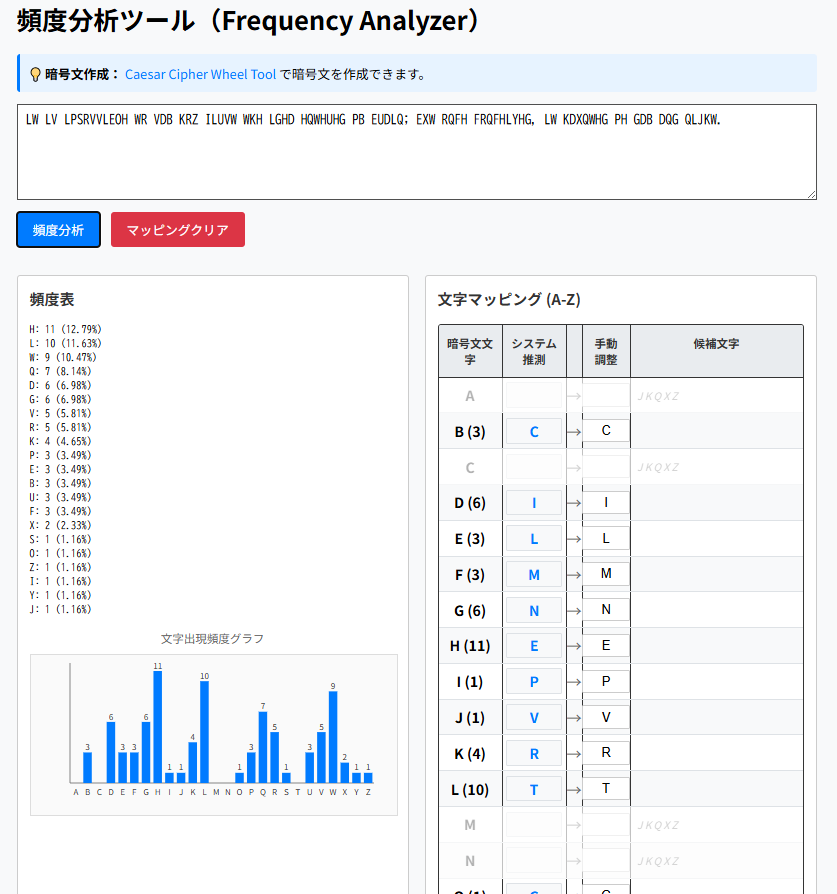
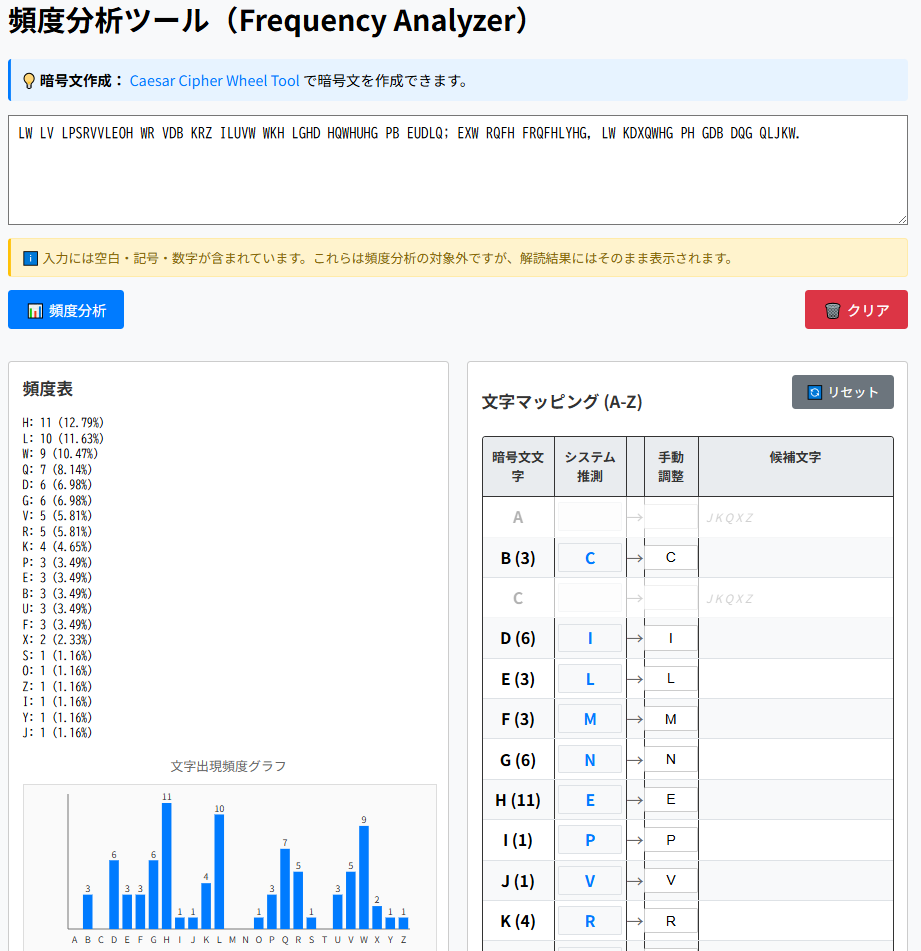
ボタン配置、SS更新

Changed region(s): [[0.0, 0.1208, 0.994, 1.0], [0.0, 0.0, 0.8698, 0.151], [0.0, 0.8154, 0.0311, 1.0]]

diff --git a/main.js b/main.js
@@ -244,53 +244,15 @@ function decodeText() {
 function displayDecodedTextWithHighlight(newDecoded) {
   const decodedElement = document.getElementById("decodedText");
   
-  // 文字単位でspan要素に分割
-  let htmlContent = '';
-  const changedPositions = [];
+  // textareaの場合はプレーンテキストで表示
+  decodedElement.value = newDecoded;
   
-  for (let i = 0; i < newDecoded.length; i++) {
-    const currentChar = newDecoded[i];
-    const previousChar = previousDecoded[i] || '';
-    const isChanged = currentChar !== previousChar && previousDecoded !== '';
-    
-    if (isChanged) {
-      changedPositions.push(i);
-    }
-    
-    if (currentChar.match(/[a-zA-Z*?]/)) {
-      htmlContent += `<span class="char-${i}${isChanged ? ' changed-char just-changed' : ''}">${currentChar}</span>`;
-    } else {
-      htmlContent += currentChar;
-    }
-  }
-  
-  decodedElement.innerHTML = htmlContent;
-  
-  // 変更された文字のアニメーション処理
-  if (changedPositions.length > 0) {
+  // 変更があった場合の視覚的フィードバック（背景色の一時変更）
+  if (newDecoded !== previousDecoded && previousDecoded !== '') {
+    decodedElement.style.backgroundColor = '#fff3cd';
     setTimeout(() => {
-      changedPositions.forEach(pos => {
-        const element = decodedElement.querySelector(`.char-${pos}`);
-        if (element) {
-          element.classList.remove('just-changed');
-        }
-      });
-    }, 500);
-    
-    // 5秒後にフェードアウト開始
-    setTimeout(() => {
-      changedPositions.forEach(pos => {
-        const element = decodedElement.querySelector(`.char-${pos}`);
-        if (element) {
-          element.classList.add('fade-out');
-          
-          // フェードアウト完了後にクラスを削除
-          setTimeout(() => {
-            element.classList.remove('changed-char', 'fade-out');
-          }, 1000);
-        }
-      });
-    }, 5000);
+      decodedElement.style.backgroundColor = '#f8f9fa';
+    }, 300);
   }
 }
 
@@ -378,7 +340,7 @@ function clearMapping() {
 }
 
 function copyResult() {
-  const resultText = document.getElementById("decodedText").textContent;
+  const resultText = document.getElementById("decodedText").value;
   navigator.clipboard.writeText(resultText).then(() => {
     // 一時的にボタンのテキストを変更してフィードバック
     const button = document.querySelector('.copy-btn');
@@ -396,7 +358,8 @@ function copyResult() {
 
 function clearResult() {
   document.getElementById("cipherText").value = '';
-  document.getElementById("decodedText").textContent = 'マッピングを設定すると解読結果が表示されます';
+  document.getElementById("decodedText").value = '';
+  document.getElementById("decodedText").placeholder = 'マッピングを設定すると解読結果が表示されます';
   frequencyData = {};
   currentMapping = {};
   systemGuess = {};

diff --git a/index.html b/index.html
@@ -20,8 +20,12 @@
   </div>
   
   <div class="controls">
-    <button onclick="analyze()">頻度分析</button>
-    <button onclick="clearMapping()" class="clear-btn">マッピングクリア</button>
+    <div>
+      <button onclick="analyze()">📊 頻度分析</button>
+    </div>
+    <div>
+      <button onclick="clearResult()" class="clear-btn">🗑 クリア</button>
+    </div>
   </div>
 
   <div class="container">
@@ -37,7 +41,10 @@
     </div>
     
     <div class="mapping-table">
-      <h3>文字マッピング (A-Z)</h3>
+      <div class="mapping-header-row">
+        <h3>文字マッピング (A-Z)</h3>
+        <button onclick="clearMapping()" class="reset-btn">🔄 リセット</button>
+      </div>
       <div class="mapping-container">
         <div class="mapping-header">
           <span>暗号文文字</span>
@@ -53,15 +60,14 @@
 
   <div class="results">
     <h3>解読結果</h3>
-    <div id="decodedText">マッピングを設定すると解読結果が表示されます</div>
+    <textarea id="decodedText" readonly rows="8" placeholder="マッピングを設定すると解読結果が表示されます"></textarea>
     <div class="result-controls">
       <button onclick="copyResult()" class="copy-btn">📋 コピー</button>
-      <button onclick="clearResult()" class="clear-btn">🗑 クリア</button>
     </div>
   </div>
 
   <div style="margin-top: 30px; padding: 15px; text-align: center; border-top: 1px solid #dee2e6; color: #6c757d;">
-    🔗 GitHubリポジトリはこちら（<a href="https://github.com/ipusiron/frequency-analyzer" target="_blank" style="color: #007bff; text-decoration: none;">ipusiron/frequency-analyzer</a>）
+    🔗 GitHubリポジトリはこちら（ <a href="https://github.com/ipusiron/frequency-analyzer" target="_blank" style="color: #007bff; text-decoration: none;">ipusiron/frequency-analyzer</a> ）
   </div>
 
   <script src="main.js"></script>

diff --git a/style.css b/style.css
@@ -221,8 +221,8 @@ button:hover {
 
 #decodedText {
   font-size: 1.1rem;
+  font-family: monospace;
   line-height: 1.6;
-  min-height: 60px;
   padding: 10px;
   background: #f8f9fa;
   border: 1px solid #dee2e6;
@@ -230,12 +230,10 @@ button:hover {
   margin-bottom: 15px;
   margin-top: 10px;
   font-weight: normal;
-  word-wrap: break-word;
-  word-break: break-word;
-  overflow-wrap: break-word;
-  white-space: pre-wrap;
-  max-width: 100%;
-  overflow-x: auto;
+  width: 100%;
+  box-sizing: border-box;
+  resize: vertical;
+  overflow-y: auto;
 }
 
 .result-controls {
@@ -250,6 +248,9 @@ h3 {
 
 .controls {
   margin-bottom: 15px;
+  display: flex;
+  justify-content: space-between;
+  align-items: center;
 }
 
 .clear-btn {
@@ -301,4 +302,29 @@ h3 {
   margin-bottom: 15px;
   font-size: 0.9rem;
   border-left: 4px solid #ffc107;
+}
+
+.mapping-header-row {
+  display: flex;
+  justify-content: space-between;
+  align-items: center;
+  margin-bottom: 10px;
+}
+
+.mapping-header-row h3 {
+  margin: 0;
+}
+
+.reset-btn {
+  background: #6c757d;
+  color: white;
+  border: none;
+  border-radius: 4px;
+  padding: 8px 16px;
+  font-size: 0.9rem;
+  cursor: pointer;
+}
+
+.reset-btn:hover {
+  background: #5a6268;
 }
